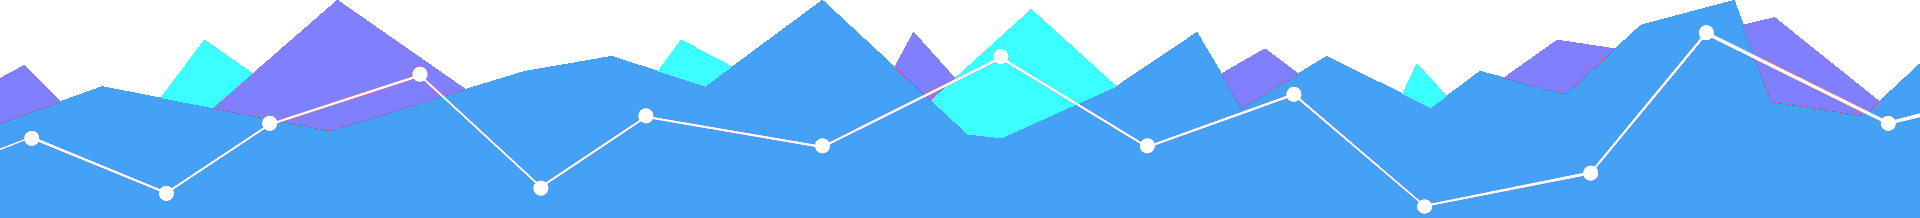
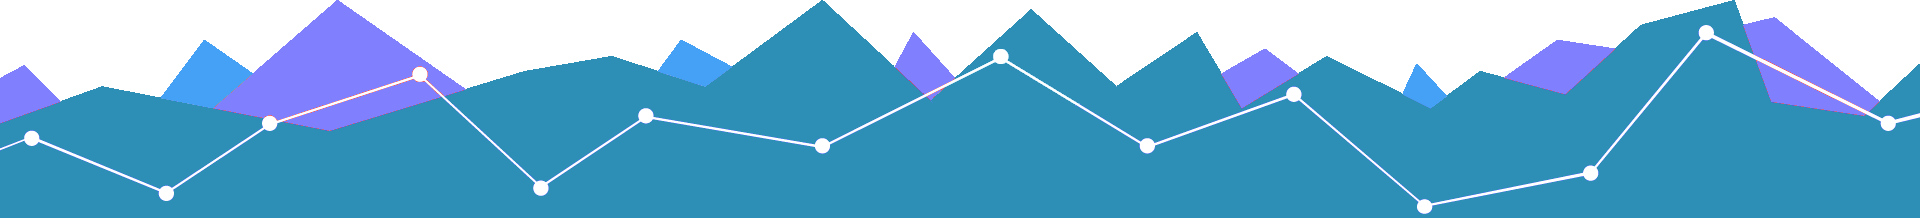
fix: footer dark theme color

diff --git a/public/style/footer.css b/public/style/footer.css
@@ -1,5 +1,5 @@
 footer {
-  background-color: var(--ligt-blue);
+  background-color: var(--dark-blue);
   text-align: center;
   color: var(--light-text-color);
   flex-shrink: 0;
